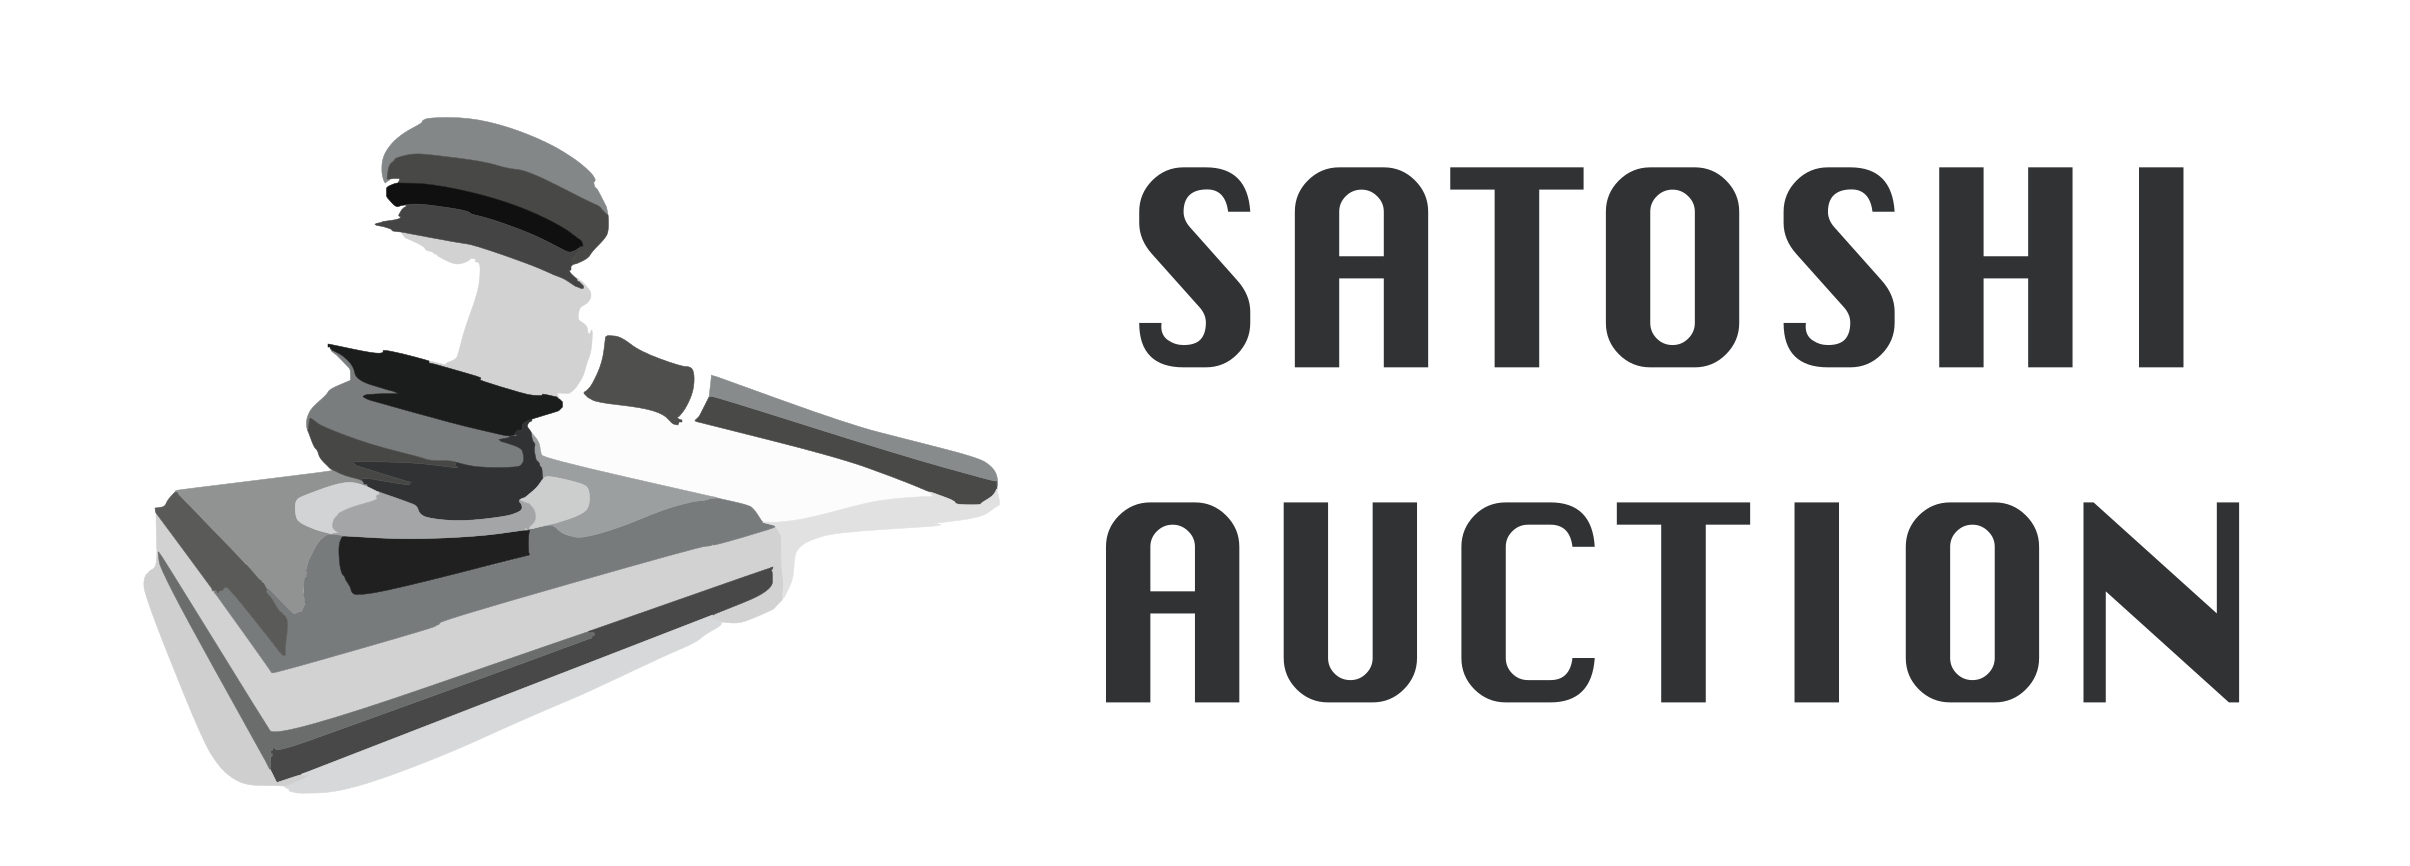
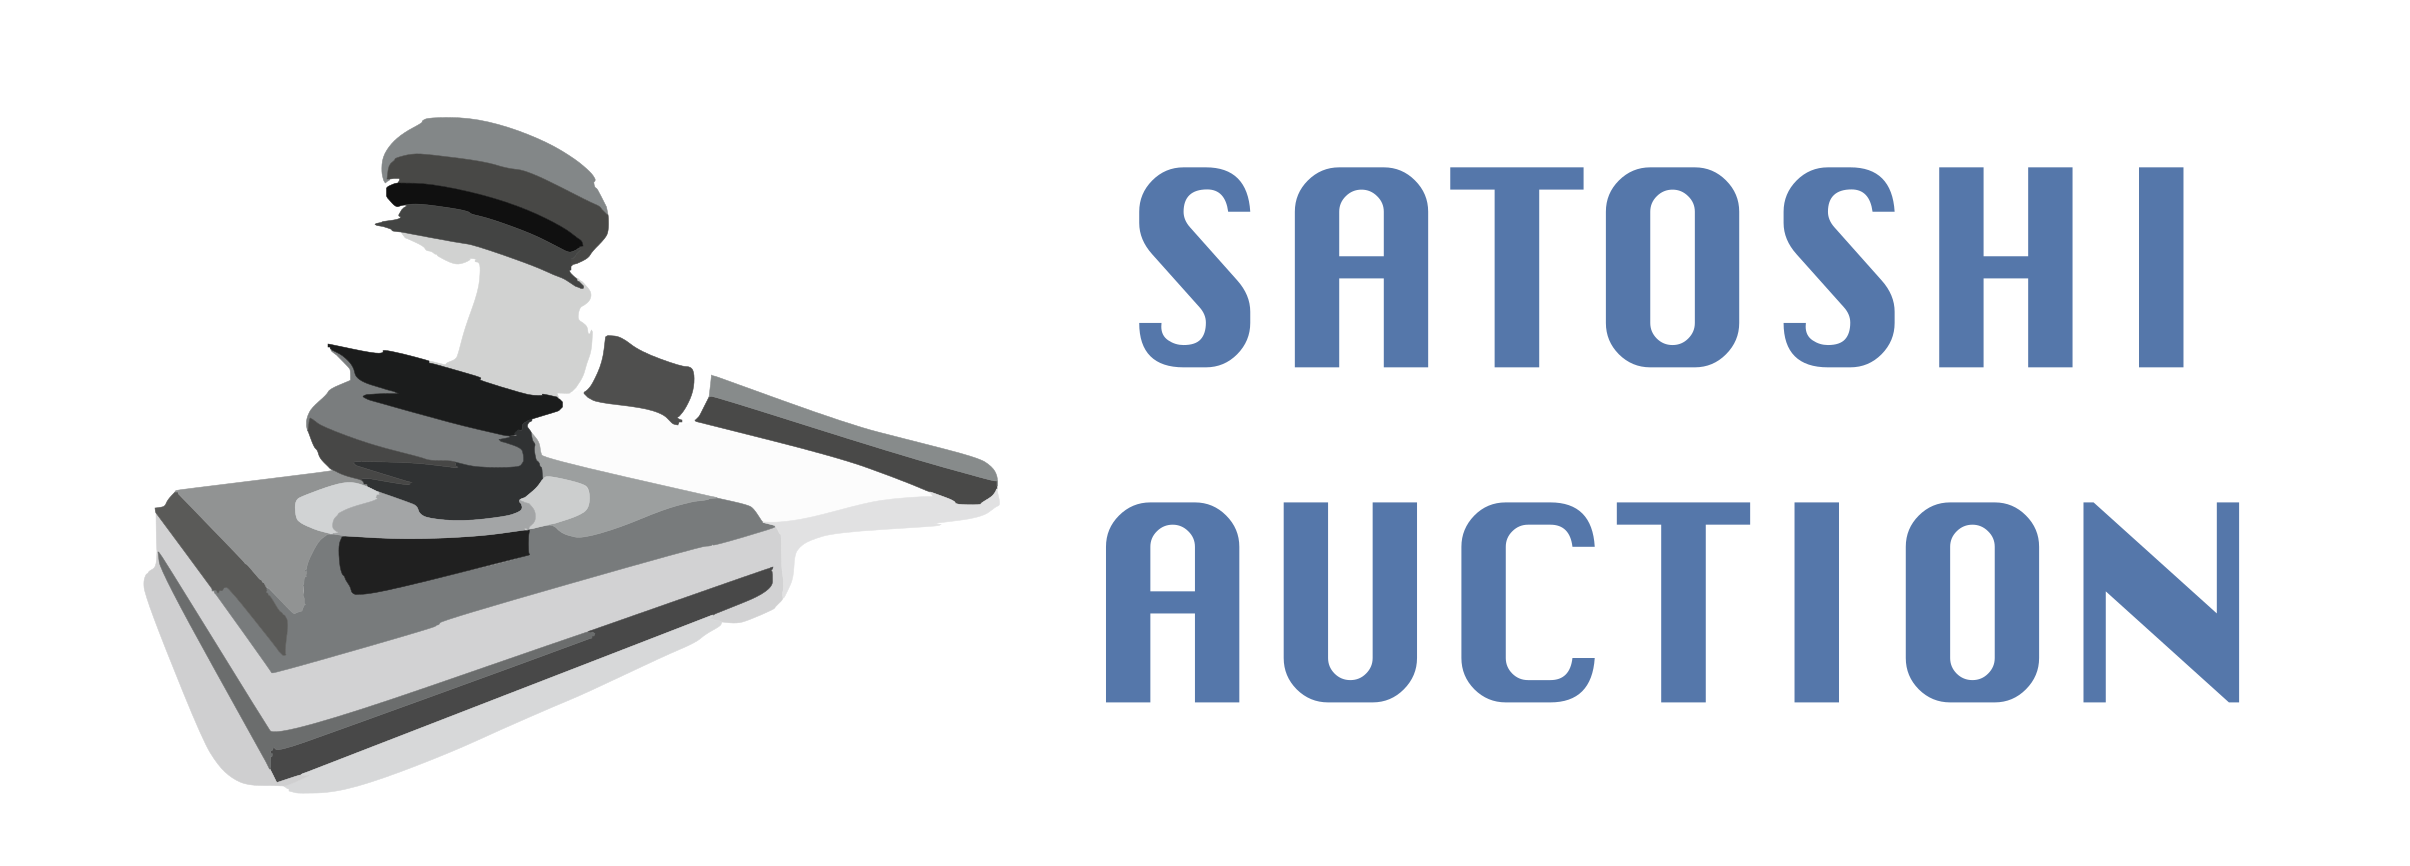
ui updates

Changed region(s): [[0.4668, 0.1871, 0.9336, 0.4365], [0.4357, 0.5612, 0.9336, 0.8106]]

diff --git a/templates/australia.html b/templates/australia.html
@@ -3,13 +3,14 @@
 <style>
   body { text-align: center; }
   img { vertical-align: middle; }
+  a, a:visited, a:hover { color: #57a; text-decoration: none; }
   #nav a { padding: 0 2em; }
 </style>
 
 <title>Satoshi Auction</title>
 
-<p id="nav"><a href="https://decision.casino/"><img src="/yin-yang.png" width="32px"/></a></p>
+<p id="nav"><a href="https://decision.casino/"><img src="/yin-yang.png" width="32px"/></a> <a href="/">Current Auctions</a> <a href="/auctions">Past Auctions</a> <a href="/rules">Rules</a> <a href="/about">About</a></p>
 
-<h1><img src="/hammer.png" width="512px"/></h1>
+<h1><img src="/hammer.png"/></h1>
 
 <p>Satoshi Auction is unavailable in Australia.</p>

diff --git a/templates/index.html b/templates/index.html
@@ -5,6 +5,7 @@
   img { vertical-align: middle; }
   table { border-collapse: collapse; margin: 1em auto; }
   th, td { border: 1px solid #ccc; padding: 0.5em; }
+  a, a:visited, a:hover { color: #57a; text-decoration: none; }
   #nav a { padding: 0 2em; }
 </style>
 
@@ -12,7 +13,7 @@
 
 <p id="nav"><a href="https://decision.casino/"><img src="/yin-yang.png" width="32px"/></a> <a href="/">Current Auctions</a> <a href="/auctions">Past Auctions</a> <a href="/rules">Rules</a> <a href='/about'>About</a></p>
 
-<h1><img src="/hammer.png" width="512px"/></h1>
+<h1><img src="/hammer.png"/></h1>
 
 <p>Welcome to Satoshi Auction.</p>
 

diff --git a/templates/auction.html b/templates/auction.html
@@ -4,6 +4,7 @@
   table { border-collapse: collapse; margin: 1em auto; }
   th, td { border: 1px solid #ccc; padding: 0.5em; }
   img { vertical-align: middle; }
+  a, a:visited, a:hover { color: #57a; text-decoration: none; }
   #nav a { padding: 0 2em; }
 </style>
 
@@ -11,7 +12,7 @@
 
 <p id="nav"><a href="https://decision.casino/"><img src="/yin-yang.png" width="32px"/></a> <a href="/">Current Auctions</a> <a href="/auctions">Past Auctions</a> <a href="/rules">Rules</a> <a href="/about">About</a></p>
 
-<h1><img src="/hammer.png" width="512px"/></h1>
+<h1><img src="/hammer.png"/></h1>
 
 <h2>Game {{ auction_id }}</h2>
 

diff --git a/templates/auctions.html b/templates/auctions.html
@@ -4,6 +4,7 @@
   table { border-collapse: collapse; margin: 1em auto; }
   th, td { border: 1px solid #ccc; padding: 0.5em; }
   img { vertical-align: middle; }
+  a, a:visited, a:hover { color: #57a; text-decoration: none; }
   #nav a { padding: 0 2em; }
 </style>
 
@@ -11,7 +12,7 @@
 
 <p id="nav"><a href="https://decision.casino/"><img src="/yin-yang.png" width="32px"/></a> <a href="/">Current Auctions</a> <a href="/auctions">Past Auctions</a> <a href="/rules">Rules</a> <a href='/about'>About</a></p>
 
-<h1><img src="/hammer.png" width="512px"/></h1>
+<h1><img src="/hammer.png"/></h1>
 
 <h2>Past Auctions</h2>
 

diff --git a/templates/about.html b/templates/about.html
@@ -3,6 +3,7 @@
 <style>
   body { text-align: center; }
   img { vertical-align: middle; }
+  a, a:visited, a:hover { color: #57a; text-decoration: none; }
   #nav a { padding: 0 2em; }
 </style>
 
@@ -10,7 +11,7 @@
 
 <p id="nav"><a href="https://decision.casino/"><img src="/yin-yang.png" width="32px"/></a> <a href="/">Current Auctions</a> <a href="/auctions">Past Auctions</a> <a href="/rules">Rules</a> <a href="/about">About</a></p>
 
-<h1><img src="/hammer.png" width="512px"/></h1>
+<h1><img src="/hammer.png"/></h1>
 
 <h2>About</h2>
 

diff --git a/templates/rules.html b/templates/rules.html
@@ -3,6 +3,7 @@
 <style>
   body { text-align: center; }
   img { vertical-align: middle; }
+  a, a:visited, a:hover { color: #57a; text-decoration: none; }
   #nav a { padding: 0 2em; }
 </style>
 
@@ -10,7 +11,7 @@
 
 <p id="nav"><a href="https://decision.casino/"><img src="/yin-yang.png" width="32px"/></a> <a href="/">Current Auctions</a> <a href="/auctions">Past Auctions</a> <a href="/rules">Rules</a> <a href='/about'>About</a></p>
 
-<h1><img src="/hammer.png" width="512px"/></h1>
+<h1><img src="/hammer.png"/></h1>
 
 <h2>Rules</h2>
 
